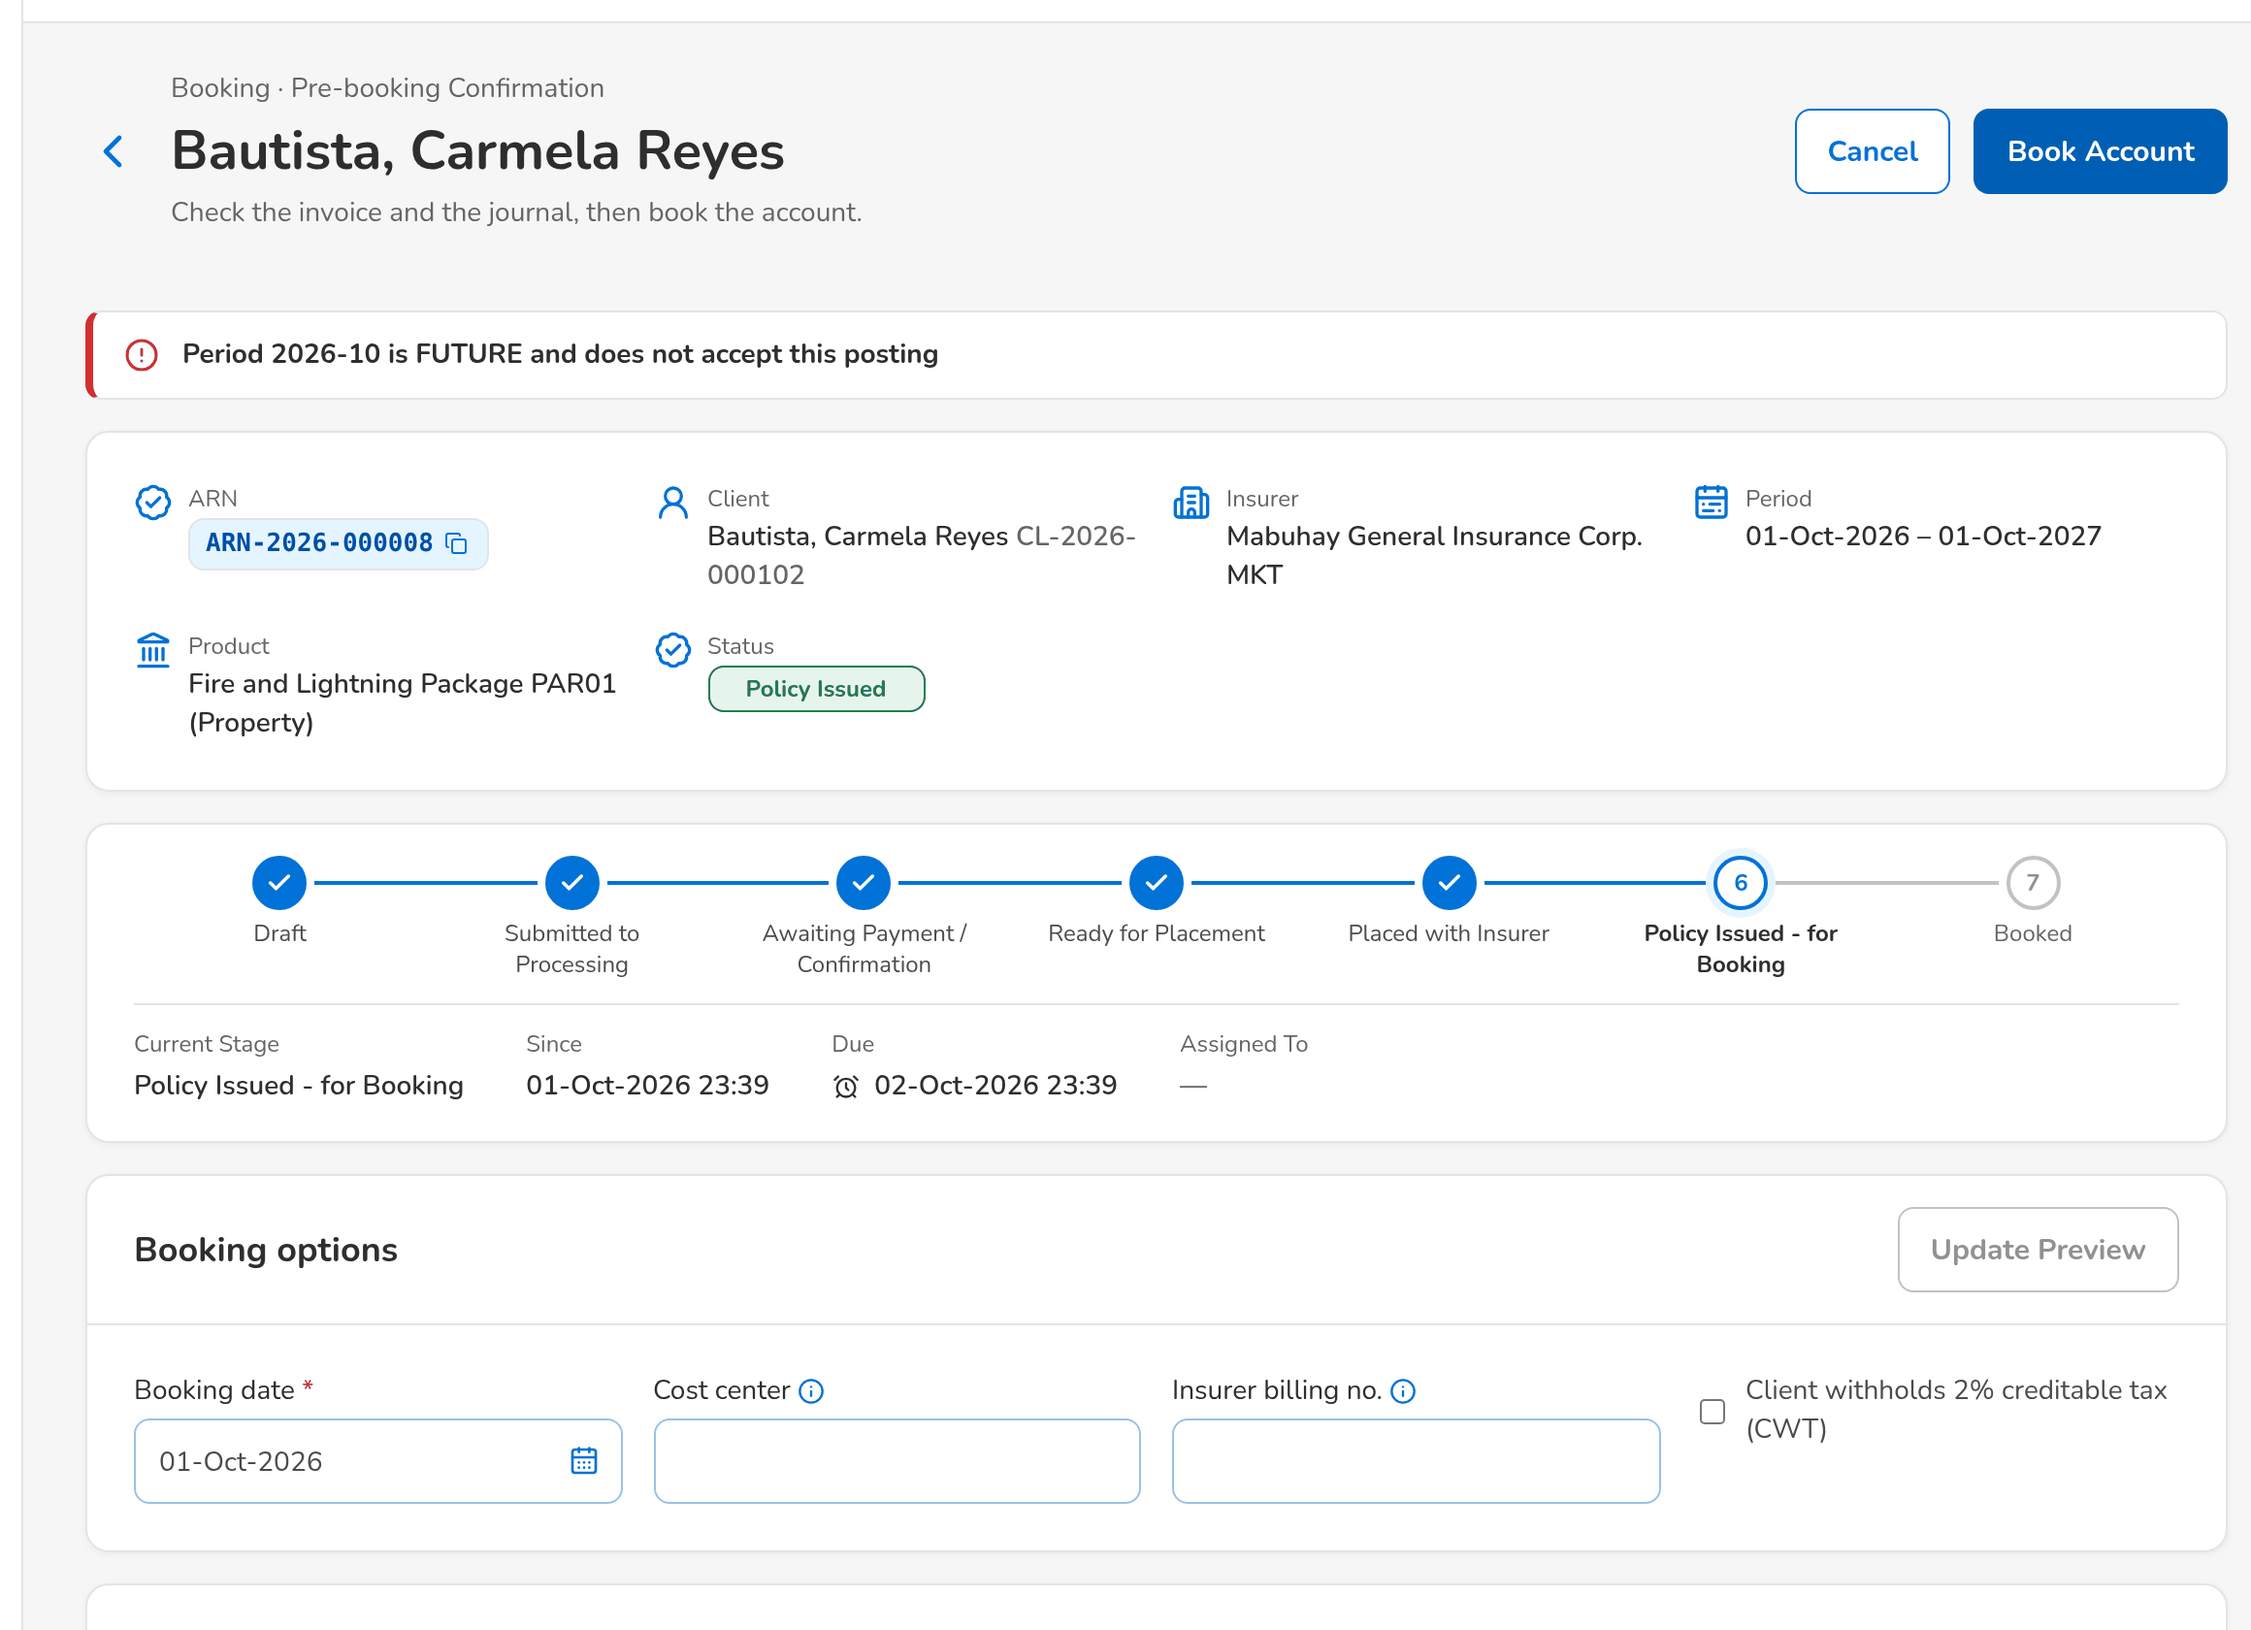
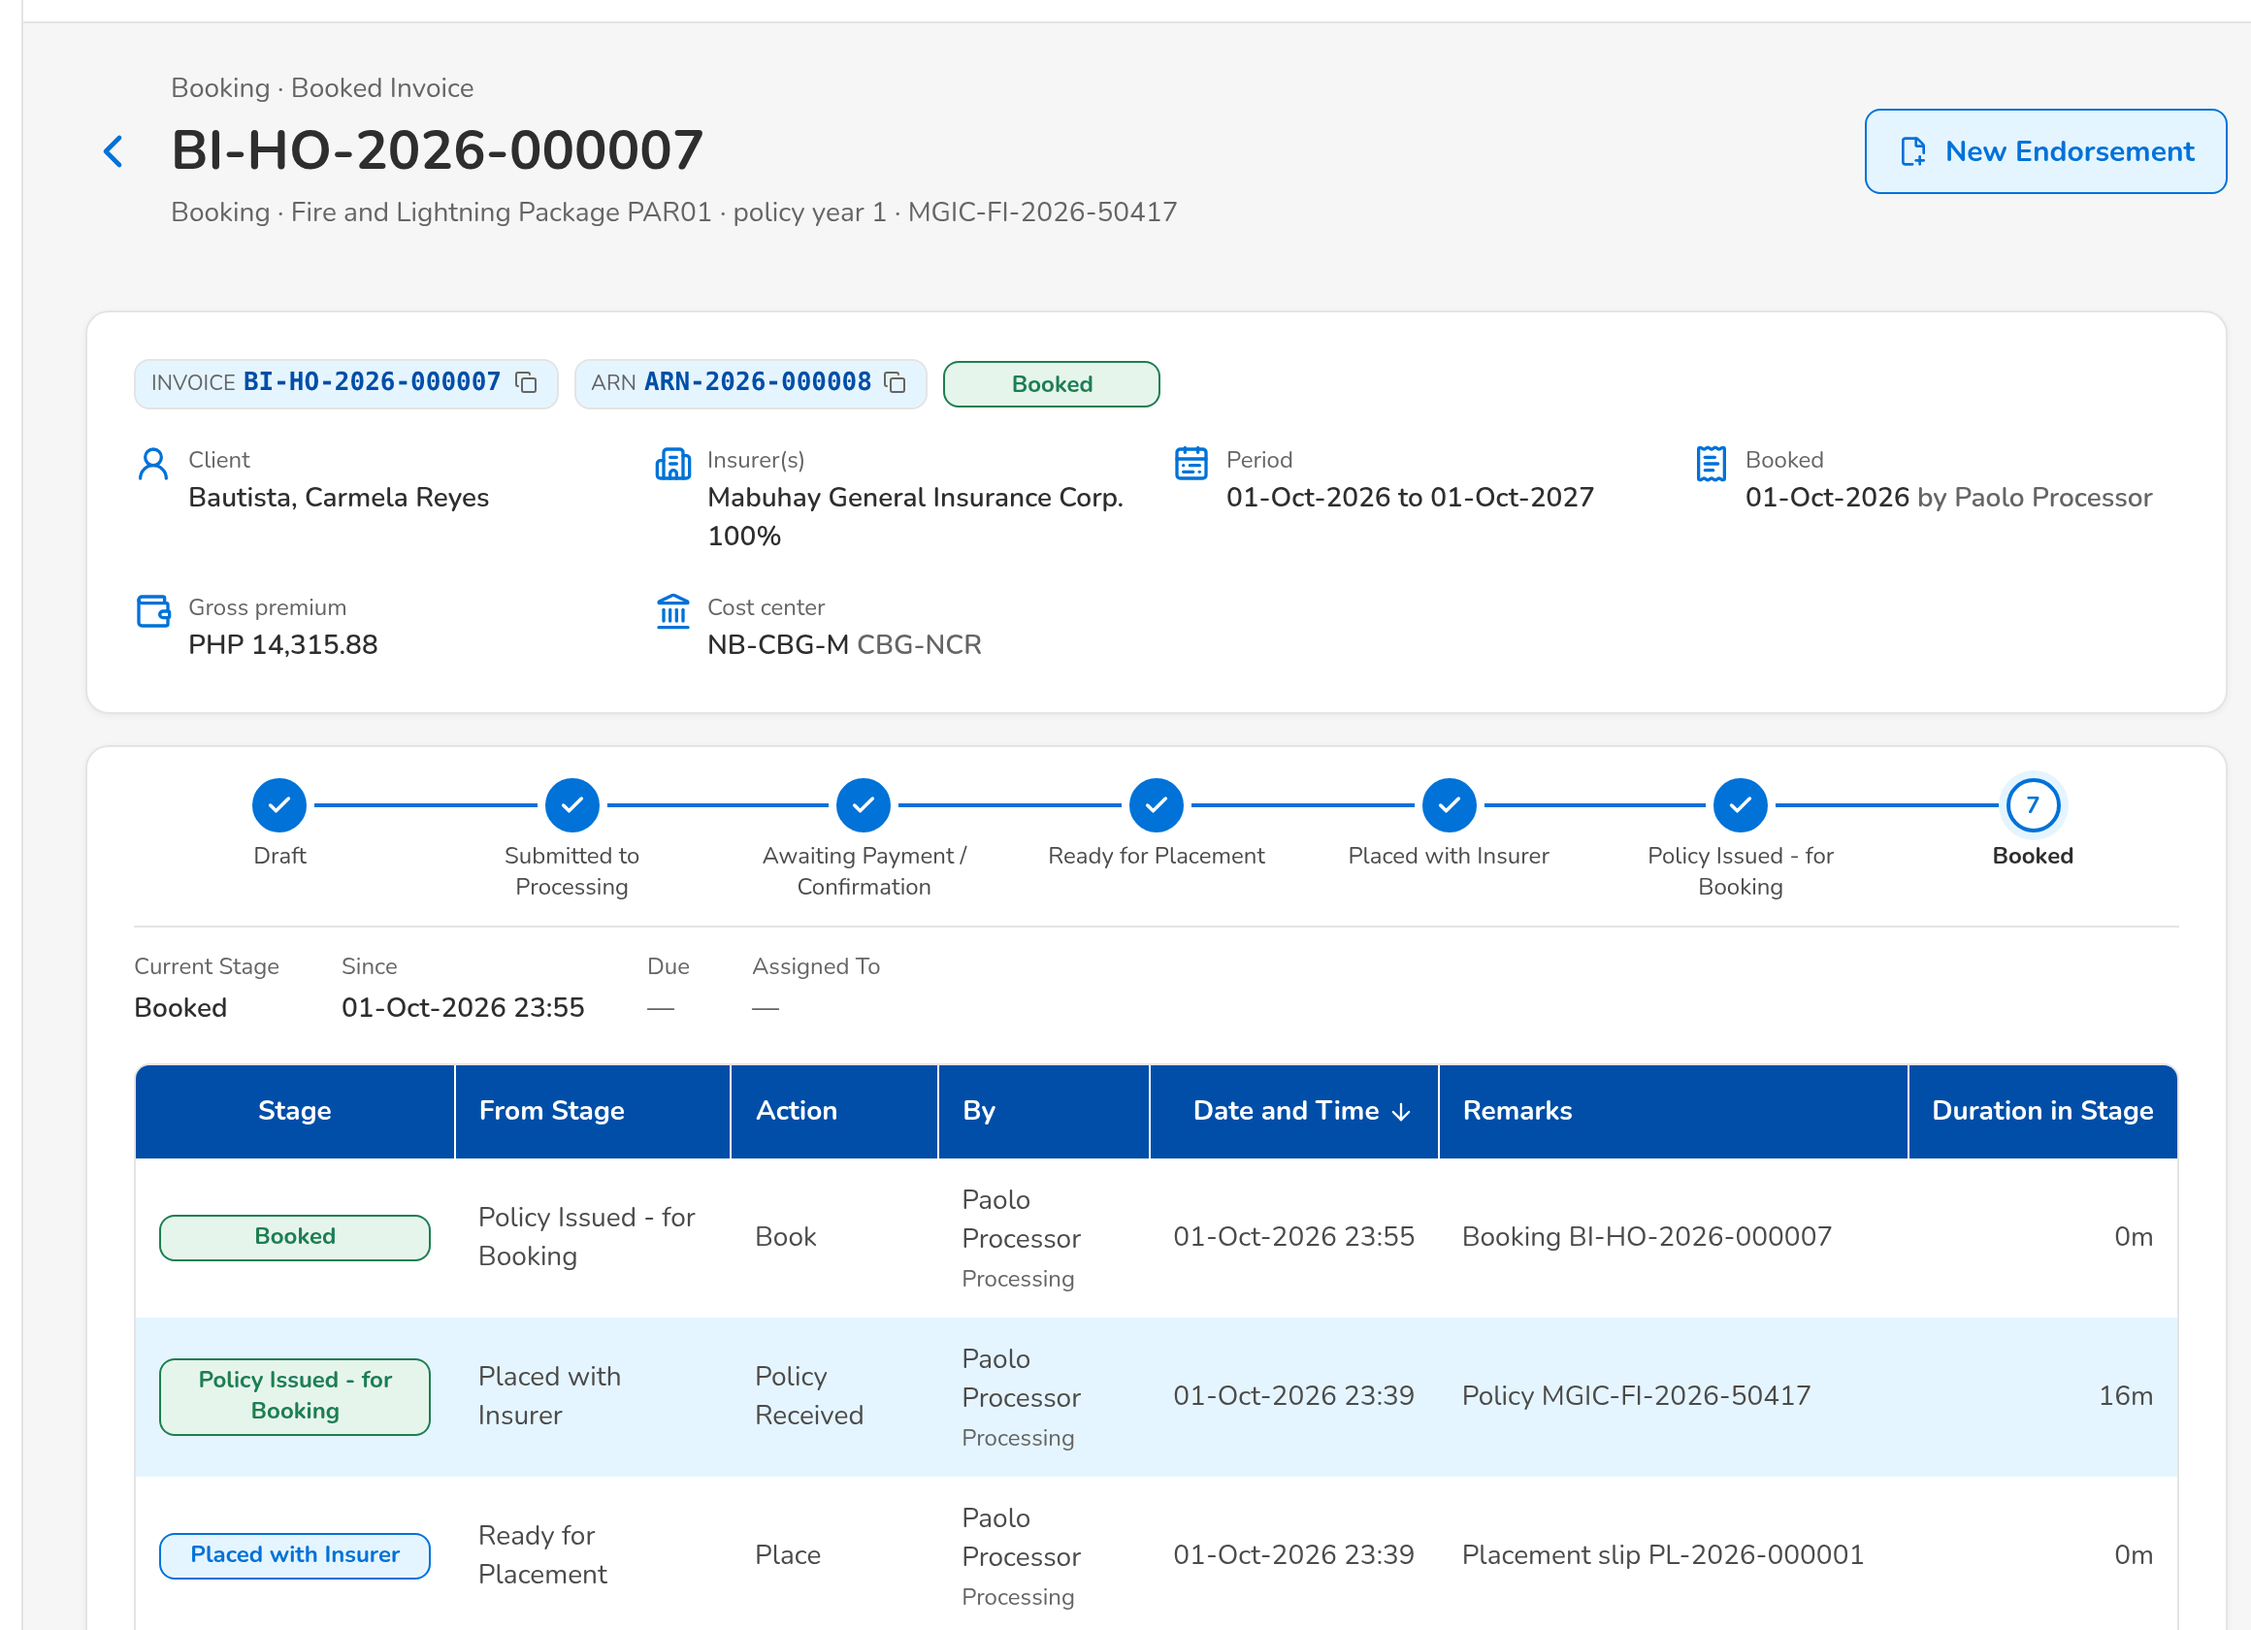
Booked invoice: the department of the cost center by name; BRD-01 walkthrough step A-17 shows the Journal tab whole

diff --git a/frontend/src/features/booking/CostCenter.test.tsx b/frontend/src/features/booking/CostCenter.test.tsx
@@ -1,0 +1,35 @@
+import { QueryClient, QueryClientProvider } from '@tanstack/react-query';
+import { render, screen } from '@testing-library/react';
+import { afterEach, describe, expect, it, vi } from 'vitest';
+import { catalogApi } from '@/api/catalog';
+import type { Company } from '@/api/types';
+import { WorkspaceContext } from '@/context/workspaceContext';
+import { CostCenter } from './BookingParts';
+
+describe('CostCenter', () => {
+  afterEach(() => vi.restoreAllMocks());
+
+  it('names the department of the cost center, never its code', async () => {
+    vi.spyOn(catalogApi, 'salesOrganisation').mockResolvedValue({
+      units: [{ code: 'CBG-NCR', name: 'Consumer Banking - NCR' }],
+    } as unknown as Awaited<ReturnType<typeof catalogApi.salesOrganisation>>);
+    const workspace = {
+      companies: [],
+      company: { id: 1 } as Company,
+      branches: [],
+      branchId: undefined,
+      setCompanyId: () => undefined,
+      setBranchId: () => undefined,
+    };
+    render(
+      <QueryClientProvider client={new QueryClient()}>
+        <WorkspaceContext.Provider value={workspace}>
+          <CostCenter costCenter="NB-CBG-M" department="CBG-NCR" />
+        </WorkspaceContext.Provider>
+      </QueryClientProvider>,
+    );
+    expect(await screen.findByText('Consumer Banking - NCR')).toBeTruthy();
+    expect(screen.getByText('NB-CBG-M')).toBeTruthy();
+    expect(screen.queryByText('CBG-NCR')).toBeNull();
+  });
+});

diff --git a/frontend/src/features/booking/InvoiceDetailPage.tsx b/frontend/src/features/booking/InvoiceDetailPage.tsx
@@ -24,7 +24,7 @@ import { StatusBadge } from '@/components/ui/StatusBadge';
 import { Tabs } from '@/components/ui/Tabs';
 import { formatAmount, formatDate, formatPeriod } from '@/utils/format';
 import { useProductName } from '@/components/broking/useLabels';
-import { PremiumTables, SummaryFact } from './BookingParts';
+import { CostCenter, PremiumTables, SummaryFact } from './BookingParts';
 import { labelOf } from './bookingForm';
 import { CancellationDialog } from './CancellationDialog';
 import {
@@ -112,7 +112,7 @@ function Summary({ invoice: i }: Readonly<{ invoice: BookedInvoice }>) {
             {i.currency} {formatAmount(i.premium.total)}
           </SummaryFact>
           <SummaryFact icon={Landmark} label="Cost center">
-            {i.facts.costCenter} <span className="muted">{i.facts.department}</span>
+            <CostCenter costCenter={i.facts.costCenter} department={i.facts.department} />
           </SummaryFact>
           {i.insurerBillingNo && (
             <SummaryFact icon={ReceiptText} label="Insurer billing no.">

diff --git a/frontend/src/features/booking/BookingParts.tsx b/frontend/src/features/booking/BookingParts.tsx
@@ -1,6 +1,7 @@
 import type { LucideIcon } from 'lucide-react';
 import type { ReactNode } from 'react';
 import type { Commission, Premium, PreviewLine } from '@/api/booking';
+import { SalesUnitName } from '@/components/broking/LovLabel';
 import { DataTable } from '@/components/ui/DataTable';
 import { StatusBadge } from '@/components/ui/StatusBadge';
 import { formatAmount, formatRate } from '@/utils/format';
@@ -132,5 +133,22 @@ export function JournalLines({
         </div>
       )}
     </div>
+  );
+}
+
+/** The cost center of a booking with the department it belongs to by name, never its code. */
+export function CostCenter({
+  costCenter,
+  department,
+}: Readonly<{ costCenter?: string | null; department?: string | null }>) {
+  return (
+    <span className="cell-stack">
+      <span>{costCenter ?? '—'}</span>
+      {department && (
+        <span className="muted">
+          <SalesUnitName code={department} />
+        </span>
+      )}
+    </span>
   );
 }
